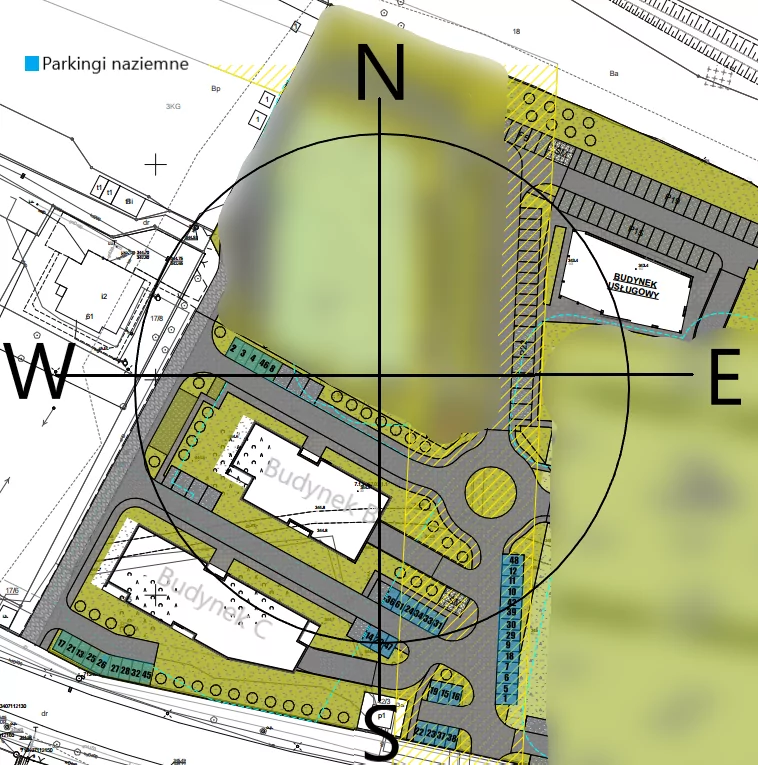
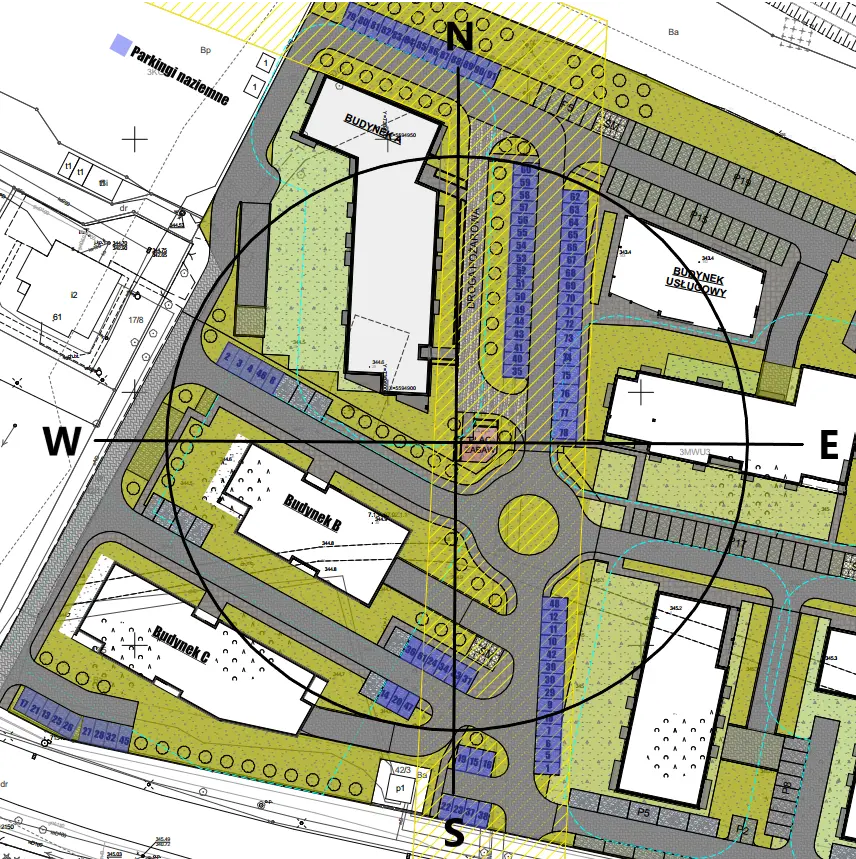
Replacement: above-ground-parking-lot-map.webp

diff --git a/above-ground-parking-lot-A.php b/above-ground-parking-lot-A.php
@@ -119,7 +119,7 @@
       <p class="titleTextGallery">Parkingi naziemne <br><br> Budynek A</p>
   
     </header>
-  <img class = "map" src             = "image/basement-underground-garages-A.webp">
+  <img class = "map" src             = "image/above-ground-parking-lot-map.webp">
   <div id    = "popupImageMap" class = "popupImageMap">
 
     <img  class = "popupContentImageMap"></img>
@@ -1239,7 +1239,7 @@ class="footer_logo">  <h5>DIAMOND HILL DEVELOPMENT jest ogólnopolskim<br>dewelo
 
  
  let popupContentImageMap=document.getElementsByClassName("popupContentImageMap")[0],map=document.getElementsByClassName("map")[0];
- map.addEventListener("click",()=>{popupImageMap.style.display="block",popupContentImageMap.src="image/basement-underground-garages-A.webp"}),
+ map.addEventListener("click",()=>{popupImageMap.style.display="block",popupContentImageMap.src="image/above-ground-parking-lot-map.webp"}),
  closePopupImageMap.addEventListener("click",()=>{}),window.addEventListener("click",e=>{e.target===popupImageMap&&(popupImageMap.style.display="none")});
   </script>
 
